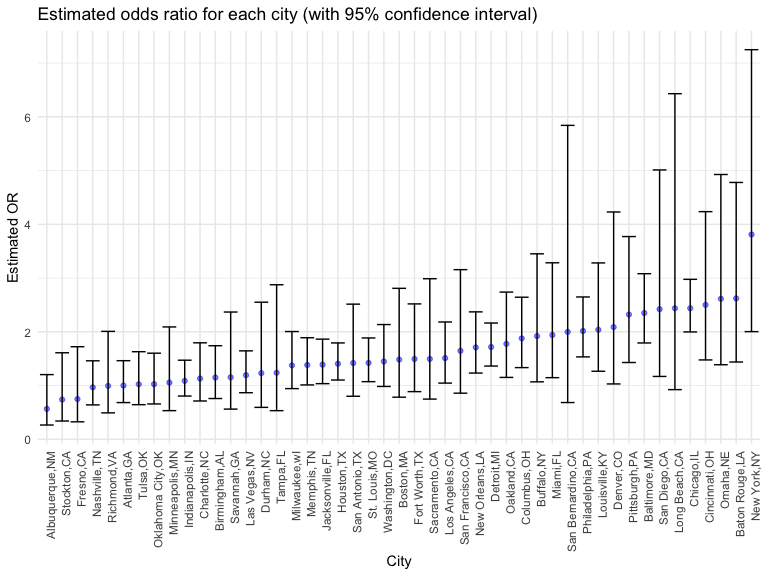
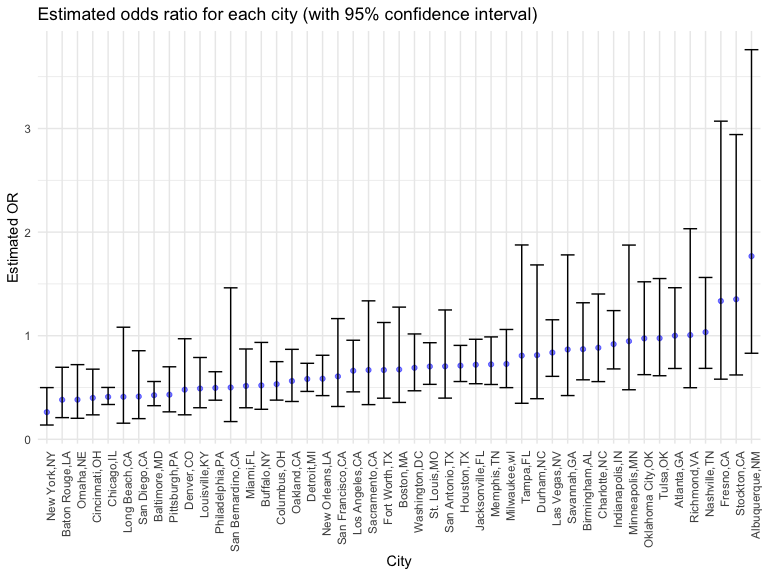
Problem 3: Clean data

diff --git a/p8105_hw6_fm2751.md b/p8105_hw6_fm2751.md
@@ -100,12 +100,13 @@ even in tough cases.
 ### Import and clean the dataset, create new variables
 
 ``` r
-homicide_data = read.csv("./data/homicide-data.csv") %>% janitor::clean_names() 
+homicide_data = read.csv("./data/homicide-data.csv") %>% 
+  janitor::clean_names() 
 
 homicide = homicide_data %>% 
   mutate(
     city_state = str_c(city,",",state),
-    solution_status = ifelse(disposition == "Closed by arrest","unsolved","solved")) %>% 
+    solution_status = ifelse(disposition == "Closed by arrest","solved","unsolved")) %>% 
    mutate(
       victim_sex = fct_relevel(victim_sex, "Female"),
       victim_race = fct_relevel(victim_race, "White"),
@@ -132,12 +133,12 @@ head(homicide)
     ## 5       Male Albuquerque    NM 35.07701 -106.5649 Closed without arrest
     ## 6     Female Albuquerque    NM 35.07066 -106.6158      Closed by arrest
     ##       city_state solution_status
-    ## 1 Albuquerque,NM          solved
-    ## 2 Albuquerque,NM          solved
-    ## 3 Albuquerque,NM          solved
-    ## 4 Albuquerque,NM          solved
-    ## 5 Albuquerque,NM          solved
-    ## 6 Albuquerque,NM        unsolved
+    ## 1 Albuquerque,NM        unsolved
+    ## 2 Albuquerque,NM        unsolved
+    ## 3 Albuquerque,NM        unsolved
+    ## 4 Albuquerque,NM        unsolved
+    ## 5 Albuquerque,NM        unsolved
+    ## 6 Albuquerque,NM          solved
 
 ### logistic regression for Baltimore, estimate & 95CI
 
@@ -154,10 +155,10 @@ log_Baltimore %>%
 
 | term             | estimate | std.error | statistic | p.value |
 |:-----------------|---------:|----------:|----------:|--------:|
-| (Intercept)      |    1.152 |     0.237 |     4.865 |   0.000 |
-| victim_age       |   -0.007 |     0.003 |    -2.024 |   0.043 |
-| victim_sexMale   |   -0.854 |     0.138 |    -6.184 |   0.000 |
-| victim_raceBlack |   -0.842 |     0.175 |    -4.818 |   0.000 |
+| (Intercept)      |   -1.152 |     0.237 |    -4.865 |   0.000 |
+| victim_age       |    0.007 |     0.003 |     2.024 |   0.043 |
+| victim_sexMale   |    0.854 |     0.138 |     6.184 |   0.000 |
+| victim_raceBlack |    0.842 |     0.175 |     4.818 |   0.000 |
 
 ``` r
 save(log_Baltimore, file = "./result/log_Baltimore.RData")
@@ -176,9 +177,9 @@ male_vs_female %>%
   knitr::kable(digits = 3)
 ```
 
-| term           | estimate |    OR | CI_Lower | CI_Upper |
-|:---------------|---------:|------:|---------:|---------:|
-| victim_sexMale |   -0.854 | 0.426 |    0.325 |    0.558 |
+| term           | estimate |   OR | CI_Lower | CI_Upper |
+|:---------------|---------:|-----:|---------:|---------:|
+| victim_sexMale |    0.854 | 2.35 |    1.793 |    3.081 |
 
 ### logistic regression for all cities
 
@@ -215,56 +216,53 @@ log_city_df %>%
 
 | city_state        |    OR | CI_Lower | CI_Upper |
 |:------------------|------:|---------:|---------:|
-| Albuquerque,NM    | 0.566 |    0.266 |    1.204 |
-| Atlanta,GA        | 1.000 |    0.683 |    1.463 |
-| Baltimore,MD      | 2.350 |    1.793 |    3.081 |
-| Baton Rouge,LA    | 2.622 |    1.438 |    4.779 |
-| Birmingham,AL     | 1.149 |    0.759 |    1.741 |
-| Boston,MA         | 1.484 |    0.784 |    2.809 |
-| Buffalo,NY        | 1.921 |    1.069 |    3.451 |
-| Charlotte,NC      | 1.131 |    0.713 |    1.795 |
-| Chicago,IL        | 2.438 |    1.998 |    2.976 |
-| Cincinnati,OH     | 2.501 |    1.477 |    4.236 |
-| Columbus,OH       | 1.878 |    1.334 |    2.644 |
-| Denver,CO         | 2.087 |    1.030 |    4.230 |
-| Detroit,MI        | 1.717 |    1.363 |    2.164 |
-| Durham,NC         | 1.231 |    0.594 |    2.551 |
-| Fort Worth,TX     | 1.495 |    0.887 |    2.519 |
-| Fresno,CA         | 0.749 |    0.326 |    1.723 |
-| Houston,TX        | 1.406 |    1.103 |    1.793 |
-| Indianapolis,IN   | 1.088 |    0.805 |    1.472 |
-| Jacksonville,FL   | 1.389 |    1.036 |    1.864 |
-| Las Vegas,NV      | 1.194 |    0.867 |    1.646 |
-| Long Beach,CA     | 2.438 |    0.924 |    6.430 |
-| Los Angeles,CA    | 1.511 |    1.046 |    2.183 |
-| Louisville,KY     | 2.039 |    1.266 |    3.282 |
-| Memphis,TN        | 1.383 |    1.012 |    1.890 |
-| Miami,FL          | 1.941 |    1.147 |    3.284 |
-| Milwaukee,wI      | 1.375 |    0.943 |    2.005 |
-| Minneapolis,MN    | 1.056 |    0.533 |    2.091 |
-| Nashville,TN      | 0.967 |    0.640 |    1.460 |
-| New Orleans,LA    | 1.710 |    1.233 |    2.371 |
-| New York,NY       | 3.811 |    2.003 |    7.249 |
-| Oakland,CA        | 1.776 |    1.151 |    2.739 |
-| Oklahoma City,OK  | 1.027 |    0.658 |    1.602 |
-| Omaha,NE          | 2.614 |    1.387 |    4.927 |
-| Philadelphia,PA   | 2.015 |    1.533 |    2.648 |
-| Pittsburgh,PA     | 2.322 |    1.429 |    3.772 |
-| Richmond,VA       | 0.994 |    0.492 |    2.008 |
-| San Antonio,TX    | 1.419 |    0.801 |    2.515 |
-| Sacramento,CA     | 1.495 |    0.748 |    2.988 |
-| Savannah,GA       | 1.153 |    0.562 |    2.368 |
-| San Bernardino,CA | 1.999 |    0.684 |    5.841 |
-| San Diego,CA      | 2.421 |    1.170 |    5.012 |
-| San Francisco,CA  | 1.646 |    0.858 |    3.157 |
-| St. Louis,MO      | 1.422 |    1.073 |    1.885 |
-| Stockton,CA       | 0.740 |    0.340 |    1.610 |
-| Tampa,FL          | 1.238 |    0.533 |    2.876 |
-| Tulsa,OK          | 1.025 |    0.644 |    1.630 |
-| Washington,DC     | 1.449 |    0.983 |    2.135 |
-
-Create a plot that shows the estimated ORs and CIs for each city.
-Organize cities according to estimated OR, and comment on the plot.
+| Albuquerque,NM    | 1.767 |    0.831 |    3.761 |
+| Atlanta,GA        | 1.000 |    0.684 |    1.463 |
+| Baltimore,MD      | 0.426 |    0.325 |    0.558 |
+| Baton Rouge,LA    | 0.381 |    0.209 |    0.695 |
+| Birmingham,AL     | 0.870 |    0.574 |    1.318 |
+| Boston,MA         | 0.674 |    0.356 |    1.276 |
+| Buffalo,NY        | 0.521 |    0.290 |    0.935 |
+| Charlotte,NC      | 0.884 |    0.557 |    1.403 |
+| Chicago,IL        | 0.410 |    0.336 |    0.501 |
+| Cincinnati,OH     | 0.400 |    0.236 |    0.677 |
+| Columbus,OH       | 0.532 |    0.378 |    0.750 |
+| Denver,CO         | 0.479 |    0.236 |    0.971 |
+| Detroit,MI        | 0.582 |    0.462 |    0.734 |
+| Durham,NC         | 0.812 |    0.392 |    1.683 |
+| Fort Worth,TX     | 0.669 |    0.397 |    1.127 |
+| Fresno,CA         | 1.335 |    0.580 |    3.071 |
+| Houston,TX        | 0.711 |    0.558 |    0.907 |
+| Indianapolis,IN   | 0.919 |    0.679 |    1.242 |
+| Jacksonville,FL   | 0.720 |    0.537 |    0.966 |
+| Las Vegas,NV      | 0.837 |    0.608 |    1.154 |
+| Long Beach,CA     | 0.410 |    0.156 |    1.082 |
+| Los Angeles,CA    | 0.662 |    0.458 |    0.956 |
+| Louisville,KY     | 0.491 |    0.305 |    0.790 |
+| Memphis,TN        | 0.723 |    0.529 |    0.988 |
+| Miami,FL          | 0.515 |    0.304 |    0.872 |
+| Milwaukee,wI      | 0.727 |    0.499 |    1.060 |
+| Minneapolis,MN    | 0.947 |    0.478 |    1.875 |
+| Nashville,TN      | 1.034 |    0.685 |    1.562 |
+| New Orleans,LA    | 0.585 |    0.422 |    0.811 |
+| New York,NY       | 0.262 |    0.138 |    0.499 |
+| Oakland,CA        | 0.563 |    0.365 |    0.868 |
+| Oklahoma City,OK  | 0.974 |    0.624 |    1.520 |
+| Omaha,NE          | 0.382 |    0.203 |    0.721 |
+| Philadelphia,PA   | 0.496 |    0.378 |    0.652 |
+| Pittsburgh,PA     | 0.431 |    0.265 |    0.700 |
+| Richmond,VA       | 1.006 |    0.498 |    2.033 |
+| San Antonio,TX    | 0.705 |    0.398 |    1.249 |
+| Sacramento,CA     | 0.669 |    0.335 |    1.337 |
+| Savannah,GA       | 0.867 |    0.422 |    1.780 |
+| San Bernardino,CA | 0.500 |    0.171 |    1.462 |
+| San Diego,CA      | 0.413 |    0.200 |    0.855 |
+| San Francisco,CA  | 0.608 |    0.317 |    1.165 |
+| St. Louis,MO      | 0.703 |    0.530 |    0.932 |
+| Stockton,CA       | 1.352 |    0.621 |    2.942 |
+| Tampa,FL          | 0.808 |    0.348 |    1.876 |
+| Tulsa,OK          | 0.976 |    0.614 |    1.552 |
+| Washington,DC     | 0.690 |    0.468 |    1.017 |
 
 ### Plot OR and CI
 
@@ -282,3 +280,35 @@ log_city_df %>%
 ```
 
 <img src="p8105_hw6_fm2751_files/figure-gfm/unnamed-chunk-7-1.png" width="90%" />
+
+## Problem 3
+
+### Load and clean the data
+
+``` r
+birthweight = read.csv("./data/birthweight.csv") %>% 
+  janitor::clean_names() %>% 
+  mutate(
+    babysex = recode_factor(babysex, "1" = "Male", "2" = "Female"),
+    frace = recode_factor(frace, "1" = "White", "2" = "Black", "3" = "Asian", "4" = "Puerto Rican", "8" = "Other"),
+    mrace = recode_factor(mrace, "1" = "White", "2" = "Black", "3" = "Asian", "4" = "Puerto Rican"),
+    malform = recode_factor(malform, "0" = "Absent", "1" = "Present")) %>% 
+  drop_na()
+
+head(birthweight)
+```
+
+    ##   babysex bhead blength  bwt delwt fincome frace gaweeks malform menarche
+    ## 1  Female    34      51 3629   177      35 White    39.9  Absent       13
+    ## 2    Male    34      48 3062   156      65 Black    25.9  Absent       14
+    ## 3  Female    36      50 3345   148      85 White    39.9  Absent       12
+    ## 4    Male    34      52 3062   157      55 White    40.0  Absent       14
+    ## 5  Female    34      52 3374   156       5 White    41.6  Absent       13
+    ## 6    Male    33      52 3374   129      55 White    40.7  Absent       12
+    ##   mheight momage mrace parity pnumlbw pnumsga    ppbmi ppwt smoken wtgain
+    ## 1      63     36 White      3       0       0 26.27184  148      0     29
+    ## 2      65     25 Black      0       0       0 21.34485  128      0     28
+    ## 3      64     29 White      0       0       0 23.56517  137      1     11
+    ## 4      64     18 White      0       0       0 21.84508  127     10     30
+    ## 5      66     20 White      0       0       0 21.02642  130      1     26
+    ## 6      66     23 White      0       0       0 18.60030  115      0     14
